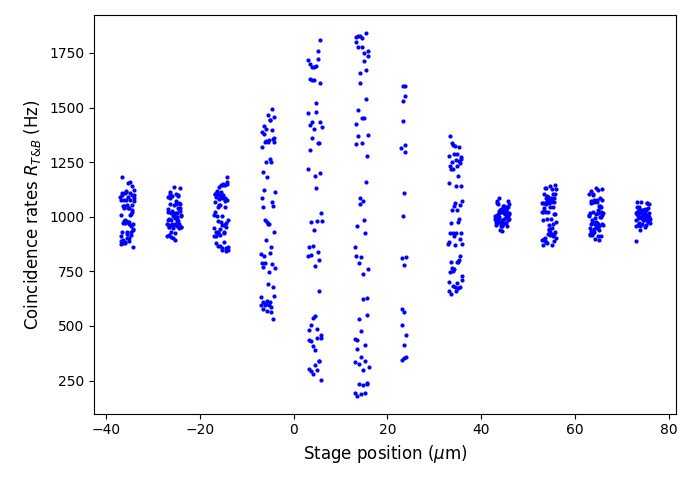
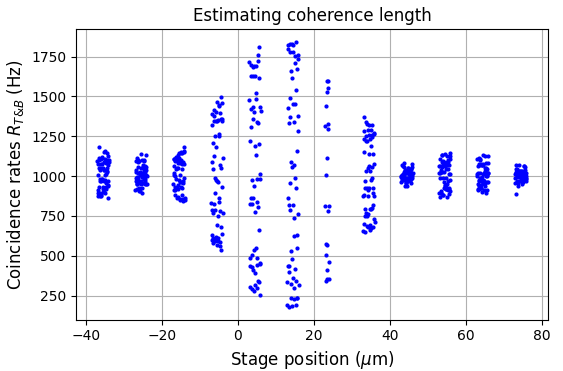
uppdatering

diff --git a/project.py b/project.py
@@ -49,10 +49,9 @@ def coherence_plot():
 
     for i, file_name in enumerate(files):
         dx = -46 + 10*i
-        with open(file_name, newline='') as csvfile:
-            csvreader = csv.reader(csvfile, delimiter=' ', quotechar='|')
-            for row in csvreader:
-                if row[0] == "Stage":
+        with open(file_name) as csvfile:
+            for k, row in enumerate(csvfile):
+                if k == 0:
                     continue
                 stage_positions.append(get_val(row, 0) + dx)
                 coincidences.append(get_val(row, 1))
@@ -60,7 +59,9 @@ def coherence_plot():
     plt.plot(stage_positions, coincidences, "bo", ms=2)
     plt.ylabel(r"Coincidence rates $R_{T&B}$ (Hz)",size=12)
     plt.xlabel(r"Stage position ($\mu$m)",size=12)
+    plt.title("Estimating coherence length",size=12)
     plt.tight_layout()
+    plt.grid(True)
     plt.show()
 
 def interference():
@@ -71,13 +72,25 @@ def interference():
         for k, row in enumerate(csvfile):
             if k == 0:
                 continue
-            print(row)
             stage_positions.append(get_val(row, 0))
             coincidences.append(get_val(row, 1))
     
     plt.figure()
-    plt.plot(stage_positions, coincidences, "r-", lw=2)
+    
+
+    def fit(x, a, b, c, d):
+        return a * np.sin(b*x + c) + d
+    p0 = [1000, 2*np.pi/0.4, 0, 1400]
+    par, parcov = curve_fit(f=fit, xdata=stage_positions, ydata=coincidences, p0=p0)
+    x = np.linspace(np.min(stage_positions), np.max(stage_positions), 2000)
+    y = par[0] * np.sin(par[1]*x + par[2]) + par[3]
+    
+    
     plt.plot(stage_positions, coincidences, "ro", ms=4)
+    plt.plot(x, y, "-", color="tab:blue", lw=2)
+
+
+    plt.legend(["Measured", rf"Fitted: $\Delta L = {round(2*np.pi/par[1], 4)} \mu$m"], loc=1)
     plt.xlabel(r"Stage position ($\mu$m)", size=12)
     plt.ylabel(r"Coincidence rate $R_{T&B}$ (Hz)",size=12)
     plt.title("Single photon interference", size=12)
@@ -148,19 +161,43 @@ def visibility():
     max_rates = np.array(max_rates)
     min_rates = np.array(min_rates)
     visibility = (max_rates - min_rates) / (max_rates + min_rates)
-    
-    def sinc(x, A, k):
-        return A*np.sin(k*x)**2 / x**2
 
-    param, param_cov = curve_fit(sinc, stage_positions, visibility)
+    def sinc2(x, A, k, x0):
+        u = k * (x - x0)
+        return np.abs( A * np.sinc(u / np.pi) )
 
+    # Initial guess
+    p0 = [0.83915639, 0.07153448, -12.09393824]
+
+    param, param_cov = curve_fit(f=sinc2, xdata=stage_positions, ydata=visibility, p0=p0)
     print(param)
-    print(param_cov)
     
     plt.figure()
+    
     plt.plot(stage_positions, visibility, "o", color="tab:blue", ms=6)
-    plt.grid(True)
 
+
+    x = np.linspace(-80,60,5000)
+    u = param[1] * (x - param[2])
+    y = np.abs(param[0] * np.sinc(u / np.pi))
+    plt.plot(x, y, "-", color="tab:orange", lw=2)
+
+    y_thresh = np.max(y)/np.e
+    points = []
+    for i in range(1, len(y)):
+        if (y[i] - y_thresh)*(y[i-1] - y_thresh) < 0:
+            points.append((x[i], y[i]))
+    x1, y1 = points[0]
+    x2, y2 = points[1]
+    plt.plot([x1, x2], [y1, y2], "-", color="black", lw=2)
+    l_c = np.abs(x2-x1)
+
+    plt.grid(True)
+    plt.xlabel(r"Stage position ($\mu$m)", size=12)
+    plt.ylabel("Visibility",size=12)
+    plt.title("Visibility plot",size=12)
+    plt.tight_layout()
+    plt.legend(["Measured", "Fitted", rf"$l_c={round(l_c,2)} \mu m$"])
     plt.show()
 
     
